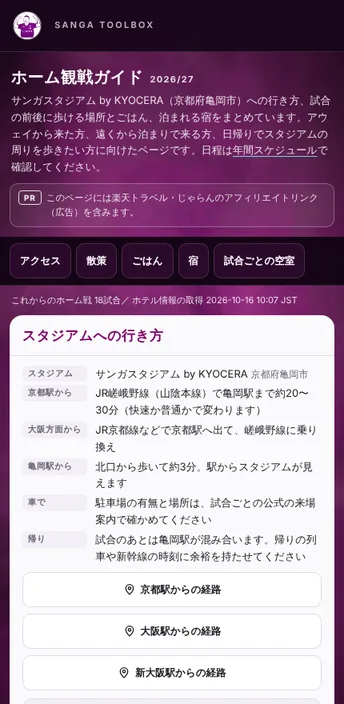
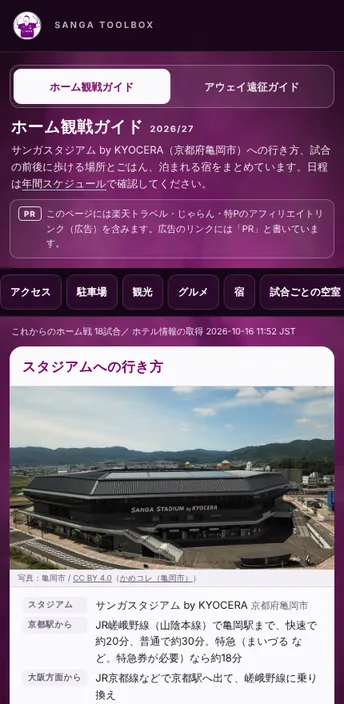
観戦ガイドを行き来できるようにし、入口の並びを変える
- ホーム観戦ガイドとアウェイ遠征ガイドの上部に切り替え（nav.guide-switch）を置く。
  今いるページは aria-current で示し、見た目は away.css で両ページ共有
- 入口の現役ツールの並びを、タイムライン・年間スケジュール・予想スカッド・
  過密日程カレンダー・ホーム観戦ガイド・アウェイ遠征ガイド・求・譲 の順にする
- ホーム観戦ガイドのサムネイルを撮り直す

Claude-Session: https://claude.ai/code/session_01VXPtaRUzcE5B6i8LDDQ6Lz

diff --git a/public/index.html b/public/index.html
@@ -126,20 +126,20 @@
       <span class="work-name">過密日程カレンダー</span>
       <span class="work-desc">2026/27シーズンの試合間隔を色で見て、日程の詰まり具合を確かめられます。</span>
     </a></li>
-    <li class="work" style="--delay: 0ms"><a class="work-link" href="TradePost/index-v1.html">
-      <span class="work-thumb" style="--accent: #5b1f7e"><img src="assets/thumbs/trade-post.webp?v=6ddbe0a3" loading="lazy" decoding="async" width="344" height="704" alt=""></span>
-      <span class="work-name">求・譲 投稿フォーマット</span>
-      <span class="work-desc">チケットやグッズの交換募集を、Xに投稿しやすい形に整えます。</span>
+    <li class="work" style="--delay: 0ms"><a class="work-link" href="home.html">
+      <span class="work-thumb" style="--accent: #7b0064"><img src="assets/thumbs/home-guide.webp?v=c4180dc8" loading="lazy" decoding="async" width="344" height="704" alt=""></span>
+      <span class="work-name">ホーム観戦ガイド</span>
+      <span class="work-desc">サンガスタジアムへの行き方、周辺の散策・ごはん、スタジアム周辺と亀岡の宿をまとめます（PRを含みます）。</span>
     </a></li>
     <li class="work" style="--delay: 90ms"><a class="work-link" href="away.html">
       <span class="work-thumb" style="--accent: #7b0064"><img src="assets/thumbs/away-guide.webp?v=eb1d45f9" loading="lazy" decoding="async" width="344" height="704" alt=""></span>
       <span class="work-name">アウェイ遠征ガイド</span>
       <span class="work-desc">アウェイ戦ごとのスタジアム・最寄り駅・前泊と当日泊のホテル候補をまとめます（PRを含みます）。</span>
     </a></li>
-    <li class="work" style="--delay: 0ms"><a class="work-link" href="home.html">
-      <span class="work-thumb" style="--accent: #7b0064"><img src="assets/thumbs/home-guide.webp?v=43161f49" loading="lazy" decoding="async" width="344" height="704" alt=""></span>
-      <span class="work-name">ホーム観戦ガイド</span>
-      <span class="work-desc">サンガスタジアムへの行き方、周辺の散策・ごはん、スタジアム周辺と亀岡の宿をまとめます（PRを含みます）。</span>
+    <li class="work" style="--delay: 0ms"><a class="work-link" href="TradePost/index-v1.html">
+      <span class="work-thumb" style="--accent: #5b1f7e"><img src="assets/thumbs/trade-post.webp?v=6ddbe0a3" loading="lazy" decoding="async" width="344" height="704" alt=""></span>
+      <span class="work-name">求・譲 投稿フォーマット</span>
+      <span class="work-desc">チケットやグッズの交換募集を、Xに投稿しやすい形に整えます。</span>
     </a></li>
   </ul>
   <section class="archive" id="archive">
@@ -176,7 +176,7 @@
   <p>SANGA TOOLBOX — unofficial fan tools</p>
 </footer>
 
-<script src="assets/index-page.js?v=b35dda51"></script>
+<script src="assets/index-page.js?v=678af63d"></script>
 <script type="module">
   // ネビュラは進行的強化として足す。失敗してもCSSの背景が残る
   import { startNebula } from "./assets/index-nebula.js?v=56428a80";

diff --git a/public/away.html b/public/away.html
@@ -16,7 +16,7 @@
 <meta property="og:image:height" content="630">
 <meta property="og:image:alt" content="SANGA TOOLBOX アウェイ遠征ガイド — 会場・最寄り駅・前泊ホテル候補を、試合ごとに。">
 <meta name="twitter:card" content="summary_large_image">
-<link rel="stylesheet" href="assets/away.css?v=c97430cf">
+<link rel="stylesheet" href="assets/away.css?v=79dbe898">
 <link rel="stylesheet" href="assets/topbar.css?v=2875c312">
 <script>
   // 描画が始まる前に決める。入口ページ・過密日程カレンダーと同じ先出し。
@@ -51,6 +51,10 @@
 
 <main class="screen">
 
+<nav class="guide-switch" aria-label="観戦ガイドの切り替え">
+<a href="home.html">ホーム観戦ガイド</a>
+<a href="away.html" aria-current="page">アウェイ遠征ガイド</a>
+</nav>
 <h1 class="page-title">アウェイ遠征ガイド<span class="page-season">2026/27</span></h1>
 <p class="away-lead">国内のアウェイ戦ごとに、スタジアム・最寄り駅と、前泊（試合前日の夜）・当日泊（試合の日の夜）のホテル候補をまとめています。日程は<a href="sanga202627season.html">年間スケジュール</a>で確認してください。</p>
 <p class="away-pr" id="awayPr"><span class="pr-tag">PR</span>このページには楽天トラベル・じゃらん・エアトリのアフィリエイトリンク（広告）を含みます。</p>

diff --git a/public/home.html b/public/home.html
@@ -16,7 +16,7 @@
 <meta property="og:image:height" content="630">
 <meta property="og:image:alt" content="SANGA TOOLBOX ホーム観戦ガイド — サンガスタジアムへの行き方、散策、亀岡の宿。">
 <meta name="twitter:card" content="summary_large_image">
-<link rel="stylesheet" href="assets/away.css?v=c97430cf">
+<link rel="stylesheet" href="assets/away.css?v=79dbe898">
 <link rel="stylesheet" href="assets/home.css?v=08fa3481">
 <link rel="stylesheet" href="assets/topbar.css?v=2875c312">
 <script>
@@ -52,6 +52,10 @@
 
 <main class="screen">
 
+<nav class="guide-switch" aria-label="観戦ガイドの切り替え">
+<a href="home.html" aria-current="page">ホーム観戦ガイド</a>
+<a href="away.html">アウェイ遠征ガイド</a>
+</nav>
 <h1 class="page-title">ホーム観戦ガイド<span class="page-season">2026/27</span></h1>
 <p class="away-lead">サンガスタジアム by KYOCERA（京都府亀岡市）への行き方、試合の前後に歩ける場所とごはん、泊まれる宿をまとめています。日程は<a href="sanga202627season.html">年間スケジュール</a>で確認してください。</p>
 <p class="away-pr"><span class="pr-tag">PR</span>このページには楽天トラベル・じゃらん・特Pのアフィリエイトリンク（広告）を含みます。広告のリンクには「PR」と書いています。</p>

diff --git a/public/assets/away.css b/public/assets/away.css
@@ -125,6 +125,21 @@ button:focus-visible,
   font-size:11.5px;color:var(--ground-ink-dim);
 }
 
+/* ホーム観戦ガイドとアウェイ遠征ガイドの切り替え（両ページで共有）。今いるページは aria-current で濃く示す */
+.guide-switch{
+  display:flex;gap:4px;
+  margin:2px 0 10px;padding:4px;
+  border:1px solid var(--ground-line);border-radius:12px;
+  background:rgba(255,255,255,.06);
+}
+.guide-switch a{
+  flex:1;display:flex;align-items:center;justify-content:center;
+  min-height:var(--tap);padding:0 10px;border-radius:9px;
+  color:var(--ground-ink-dim);font-size:13px;font-weight:800;text-decoration:none;
+}
+.guide-switch a:hover{background:rgba(255,255,255,.1);color:var(--ground-ink)}
+.guide-switch a[aria-current="page"]{background:var(--paper);color:var(--accent)}
+
 /* 試合へ飛ぶ帯。横に流す。スクロールしても画面の上に貼り付く。
    PR の枠（薄い白）と見分けられるよう、帯も札も濃い色にする */
 .away-jump{

diff --git a/public/assets/index-page.js b/public/assets/index-page.js
@@ -11,8 +11,8 @@
 // 順で試す。squad-builder.js と同じ方式。
 // ?v= は tools/asset-versions.mjs が tools.json の内容ハッシュへ書き換える。
 const DATA_CANDIDATES = [
-  "/data/tools.json?v=fda5850b",
-  "data/tools.json?v=fda5850b",
+  "/data/tools.json?v=dacf05c1",
+  "data/tools.json?v=dacf05c1",
 ];
 
 async function loadTools() {

diff --git a/docs/site-index.md b/docs/site-index.md
@@ -151,6 +151,7 @@
 2026-09-08に過密日程カレンダー（`calendar.html`）を現役へ足しました。並びは予想スカッドの次です。
 2026-09-09にサポータータイムライン（`timeline.html`）を現役の先頭へ足しました。販売開始の締切がある唯一のツールで、見落とすと取り返しがつかないためです。サムネイルは初回の使い方を閉じた状態（`localStorage` の `sanga-timeline-tour-v2` を `done` にして）で撮ります。
 2026-10-15にアウェイ遠征ガイド（`away.html`）を現役の末尾へ足しました。アフィリエイト（PR）を含むため、カードの説明文にも「PRを含みます」と書きます。日程ページ（timeline・年間スケジュール）からはリンクしません（2026-07-09の方針。`docs/hotels-operation-flow.md`）。
+2026-10-16に現役の並びを、サポータータイムライン・年間スケジュール・予想スカッド・過密日程カレンダー・ホーム観戦ガイド・アウェイ遠征ガイド・求・譲 投稿フォーマットの順にしました（運営者の指定。観戦ガイド2つを並べ、求・譲を末尾へ）。ホーム観戦ガイドのサムネイルは、ページ上部に観戦ガイドの切り替えを足したので撮り直しました。
 2026-10-16にホーム観戦ガイド（`home.html`）をアウェイ遠征ガイドの次へ足しました。考え方はアウェイ遠征ガイドと同じで、説明文に「PRを含みます」と書き、日程ページからはリンクしません。サムネイルはページの頭（行き方の欄）を撮っています。
 
 ### サムネイル

diff --git a/docs/hotels-operation-flow.md b/docs/hotels-operation-flow.md
@@ -89,6 +89,8 @@ node --check public/assets/app.js
 
 ## ホーム観戦ガイド（2026-10-16 実装）
 
+ホーム観戦ガイドとアウェイ遠征ガイドは、ページ上部の切り替え（`nav.guide-switch`、見た目は `away.css`、今いるページに `aria-current="page"`）で行き来できる（2026-10-16）。
+
 サンガスタジアム by KYOCERA に来る人向けの独立ページ `public/home.html`（`assets/home-guide.js`、見た目は `away.css` を共有し `home.css` で足す）。対象は、アウェイから来るサポーター、遠方から泊まりで来る人、泊まらずにスタジアムの周りを歩きたい人（ページには書かない。2026-10-16に冒頭の一文を外した）。アウェイ遠征ガイドと同じく、日程ページからはリンクせず、入口の `tools.json` のカードからだけ辿れる。
 
 ### 中身と正本
